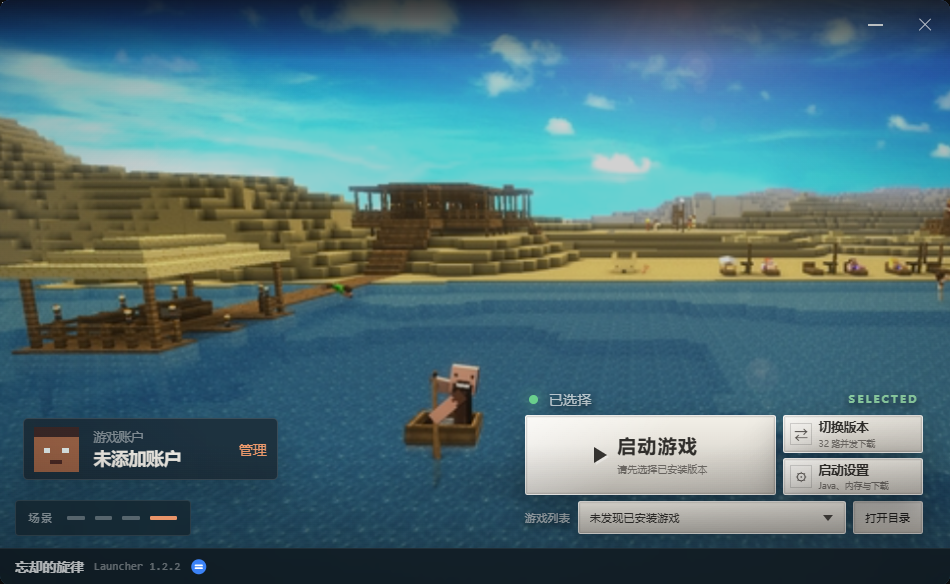
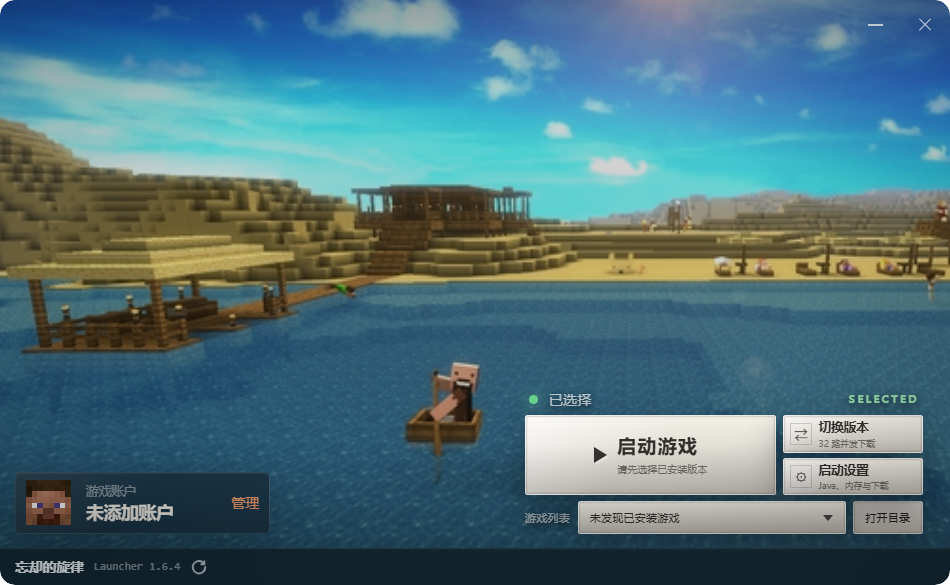
Refresh website with current launcher screenshots

diff --git a/styles.css b/styles.css
@@ -1,5 +1,5 @@
 @import url("https://fonts.googleapis.com/css2?family=DM+Sans:wght@400;500;600;700&family=Noto+Sans+SC:wght@400;500;600;700;800&display=swap");
-:root{color-scheme:dark;--ink:#f5f6f1;--muted:#aab5ae;--bg:#151b19;--line:#38443f;--accent:#c7e56b}
+:root{color-scheme:dark;--ink:#f5f2ee;--muted:#b3ada8;--bg:#191b20;--line:#454043;--accent:#e3a17a}
 *{box-sizing:border-box}
 html{scroll-behavior:smooth}
 body{margin:0;background:var(--bg);color:var(--ink);font-family:"DM Sans","Noto Sans SC",sans-serif;letter-spacing:0}
@@ -28,14 +28,21 @@ img{max-width:100%;display:block}
 .menu-button span{display:block;width:22px;height:2px;background:#fff;margin:5px 0}
 .hero{position:relative;min-height:690px;height:min(800px,88vh);overflow:hidden;background:#25352b}
 .hero-image,.hero-shade{position:absolute;inset:0}
-.hero-image{background:url("./assets/backgrounds/scene-01.jpg") center 55%/cover no-repeat;transform:scale(1.01)}
-.hero-shade{background:linear-gradient(90deg,#0d1713ed 0%,#0d1713bb 34%,#0d171333 75%),linear-gradient(0deg,#0d1713a8,transparent 30%)}
+.hero-image{background:url("./assets/backgrounds/scene-04.jpg") center 55%/cover no-repeat;transform:scale(1.01)}
+.hero-shade{background:linear-gradient(90deg,#101923ed 0%,#101923bb 34%,#10192355 75%),linear-gradient(0deg,#191b20,transparent 45%)}
 .hero-inner{position:relative;z-index:1;height:100%;display:flex;flex-direction:column;justify-content:center;padding-top:82px}
-.hero-content{max-width:690px;margin-top:10px}
+.hero-layout{display:grid;grid-template-columns:minmax(0,.85fr) minmax(0,1.3fr);align-items:center;gap:5%}
+.hero-content{max-width:540px;margin-top:10px}
+.hero-launcher-preview{margin:0;min-width:0}
+.hero-launcher-preview a{display:block;border-radius:14px;box-shadow:0 28px 80px #0008;transition:transform .2s}
+.hero-launcher-preview a:hover{transform:translateY(-4px)}
+.hero-launcher-preview a:focus-visible{outline:2px solid var(--accent);outline-offset:6px}
+.hero-launcher-preview img{width:100%;height:auto;border-radius:14px}
+.hero-launcher-preview figcaption{margin-top:16px;color:#e1d8d0;font-size:12px;text-align:right;line-height:1.6}
 .kicker{display:flex;align-items:center;gap:11px;font-size:12px;font-weight:700;color:#d5e4d5;margin:0 0 28px}
 .status-dot{width:7px;height:7px;background:var(--accent);border-radius:50%;box-shadow:0 0 0 5px #c7e56b2c}
 h1,h2,h3,p,figure{margin-top:0}
-h1{font-size:clamp(50px,6.2vw,88px);line-height:1.12;font-weight:800;margin-bottom:14px}
+h1{font-size:clamp(42px,4.2vw,66px);line-height:1.12;font-weight:800;margin-bottom:14px}
 .hero-subtitle{font-size:clamp(24px,2.7vw,36px);font-weight:600;margin-bottom:22px;color:#e0eccf}
 .hero-description{max-width:530px;font-size:16px;line-height:1.9;color:#e3e9e2;margin-bottom:30px}
 .hero-actions{display:flex;flex-wrap:wrap;gap:12px}
@@ -77,7 +84,7 @@ h2{font-size:clamp(32px,3.3vw,48px);line-height:1.3;font-weight:800;margin-botto
 .feature-item p{color:#abb9ac;line-height:1.8;font-size:14px;margin:0;max-width:700px}
 .feature-mark{font-size:22px;color:#b7d279;text-align:right}
 .scene-section{height:380px;position:relative;overflow:hidden;background:#313f36}
-.scene-image{position:absolute;inset:0;background:url("./assets/backgrounds/scene-03.jpg") center/cover no-repeat}
+.scene-image{position:absolute;inset:0;background:url("./assets/backgrounds/scene-04.jpg") center/cover no-repeat}
 .scene-section:after{content:"";position:absolute;inset:0;background:linear-gradient(90deg,#101a16d9,#101a1633)}
 .scene-content{position:relative;z-index:1;height:100%;display:flex;flex-direction:column;justify-content:center}
 .scene-content span{font-size:11px;font-weight:800;letter-spacing:2px;color:#d6ebbb}
@@ -147,3 +154,5 @@ h2{font-size:clamp(32px,3.3vw,48px);line-height:1.3;font-weight:800;margin-botto
 @media(max-width:700px){.shell{width:min(100% - 36px,1280px)}.header-inner{height:68px}.brand img{width:34px;height:34px}.brand strong{font-size:14px}.brand small{font-size:8px}.header-download{display:none}.menu-button{display:block}.site-nav{display:none;position:absolute;top:68px;left:0;right:0;background:#16211b;padding:15px 18px 23px;border-bottom:1px solid #465349;flex-direction:column;align-items:stretch;gap:0}.menu-open .site-nav{display:flex}.site-nav a{padding:12px 4px}.hero{height:auto;min-height:650px}.hero-image{background-position:58% center}.hero-shade{background:linear-gradient(90deg,#0d1713e8,#0d171374),linear-gradient(0deg,#0d1713bf,transparent 45%)}.hero-inner{min-height:650px;padding-top:68px}.hero-content{margin-top:0}.kicker{font-size:10px;margin-bottom:23px}.hero-description{font-size:14px}.hero-bottom{bottom:20px}.intro-band,.features-section,.download-section{padding:72px 0}.intro-layout{grid-template-columns:1fr;gap:42px}.section-copy>p:not(.section-label){max-width:600px}.launcher-figure img{box-shadow:9px 12px 0 #d2ddd1}.launcher-figure figcaption{margin-top:20px}.section-heading{margin-bottom:30px}.feature-item{grid-template-columns:34px 1fr 20px;gap:14px;padding:25px 0}.feature-item h3{font-size:18px}.feature-mark{font-size:18px}.scene-section{height:310px}.download-layout{flex-direction:column;align-items:stretch;gap:30px}.download-action{max-width:350px}.footer-inner{flex-wrap:wrap;gap:22px}.footer-inner p{margin-left:auto}.partner-window{right:12px;bottom:12px;width:min(300px,calc(100vw - 24px))}}
 @media(max-width:390px){h1{font-size:46px}.hero-actions{gap:9px}.hero-actions .button{padding:0 14px;font-size:12px}.quick-facts{gap:8px}.quick-facts strong{font-size:24px}.quick-facts span{font-size:10px}.footer-inner p{order:3;width:100%;margin:0}}
 @media(prefers-reduced-motion:reduce){html{scroll-behavior:auto}*{transition:none!important}}
+@media(max-width:1050px){.hero-layout{grid-template-columns:1fr;gap:32px}.hero{height:auto;min-height:0}.hero-inner{padding-top:132px;padding-bottom:94px}.hero-content{max-width:650px;margin:0}.hero-launcher-preview{width:min(100%,760px)}.hero-bottom{left:0;right:0}.hero-subtitle{font-size:28px}.hero-description{max-width:600px}.site-nav{gap:18px}.header-inner{gap:20px}.header-download{padding-inline:12px}}
+@media(max-width:700px){.hero-inner{min-height:0;padding-top:110px;padding-bottom:84px}.hero-layout{gap:32px}.hero-subtitle{font-size:24px}.hero-launcher-preview figcaption{font-size:10px;text-align:left}.hero-launcher-preview a,.hero-launcher-preview img{border-radius:8px}}

diff --git a/index.html b/index.html
@@ -3,11 +3,12 @@
 <head>
   <meta charset="UTF-8">
   <meta name="viewport" content="width=device-width, initial-scale=1">
-  <meta name="theme-color" content="#151b19">
+  <meta name="theme-color" content="#191b20">
   <meta name="description" content="忘却的旋律是一款 Minecraft 启动器。管理游戏版本、账户、加载器和整合包，准备好就直接开玩。">
   <title>忘却的旋律启动器</title>
   <link rel="icon" type="image/png" href="./assets/app-icon.png">
-  <link rel="preload" as="image" href="./assets/backgrounds/scene-01.jpg">
+  <link rel="preload" as="image" href="./assets/backgrounds/scene-04.jpg">
+  <link rel="preload" as="image" href="./assets/launcher-screenshot.png">
   <link rel="stylesheet" href="./styles.css">
   <script src="./site.js" defer></script>
 </head>
@@ -36,16 +37,22 @@
     <section class="hero" id="top">
       <div class="hero-image" aria-hidden="true"></div><div class="hero-shade" aria-hidden="true"></div>
       <div class="shell hero-inner">
+        <div class="hero-layout">
         <div class="hero-content">
           <p class="kicker"><span class="status-dot"></span><span data-i18n="hero.kicker">Minecraft 启动器 · Windows / macOS / Linux</span></p>
           <h1 data-i18n="hero.title">忘却的旋律</h1>
-          <p class="hero-subtitle" data-i18n="hero.subtitle">打开游戏，接着玩。</p>
-          <p class="hero-description" data-i18n="hero.description">版本、账户、模组加载器都放在一个地方。选好要玩的世界，剩下的交给启动器。</p>
+          <p class="hero-subtitle" data-i18n="hero.subtitle">你的方块世界，从这里启动。</p>
+          <p class="hero-description" data-i18n="hero.description">沙漠湖泊，打开即见。管理账户、安装版本、调整 Java 与内存，然后启动游戏。</p>
           <div class="hero-actions">
             <a class="button button-primary" href="#download"><span aria-hidden="true">↓</span><span data-i18n="hero.download">下载启动器</span></a>
             <a class="button button-outline" href="#launcher"><span data-i18n="hero.preview">看看界面</span><span aria-hidden="true">↘</span></a>
           </div>
           <p class="hero-release" data-i18n="hero.release">通过本站选择版本，使用 HTTPS 下载</p>
+        </div>
+        <figure class="hero-launcher-preview">
+          <a href="#launcher" aria-label="查看启动器账户界面"><img src="./assets/launcher-screenshot.png" width="950" height="584" alt="忘却的旋律 1.6.4 启动器真实主界面，默认沙漠湖泊壁纸" fetchpriority="high" decoding="async"></a>
+          <figcaption data-i18n="hero.caption">v1.6.4 实际主界面 · 沙漠湖泊默认场景</figcaption>
+        </figure>
         </div>
         <div class="hero-bottom"><span>01 / MELODY LAUNCHER</span><a href="#launcher" aria-label="向下查看"><span aria-hidden="true">↓</span></a></div>
       </div>
@@ -54,15 +61,15 @@
       <div class="shell intro-layout">
         <div class="section-copy">
           <p class="section-label">THE LAUNCHER / 01</p>
-          <h2 data-i18n="intro.title">你要玩的版本，<br>一眼就能找到。</h2>
-          <p data-i18n="intro.body">启动页只显示已经装好的游戏。换版本、切账户、打开设置，不用在一长串下载目录里翻找。</p>
+          <h2 data-i18n="intro.title">熟悉的账户，<br>在同一个地方。</h2>
+          <p data-i18n="intro.body">左下角管理 Microsoft、离线和 LittleSkin 账户。右侧切换已安装版本、打开启动设置，壁纸也可在设置中更换。</p>
           <div class="quick-facts">
             <div><strong>3</strong><span data-i18n="fact.accounts">种账户入口</span></div>
             <div><strong>32</strong><span data-i18n="fact.threads">路并发下载</span></div>
             <div><strong>3</strong><span data-i18n="fact.platforms">个桌面平台</span></div>
           </div>
         </div>
-        <figure class="launcher-figure"><img src="./assets/launcher-screenshot.png" alt="忘却的旋律启动器界面截图" loading="lazy"><figcaption data-i18n="intro.caption">启动器实际界面</figcaption></figure>
+        <figure class="launcher-figure"><img src="./assets/launcher-accounts.png" width="950" height="584" alt="忘却的旋律启动器真实账户管理界面，包含 Microsoft、离线和 LittleSkin 登录" loading="lazy" decoding="async"><figcaption data-i18n="intro.caption">v1.6.4 实际账户管理界面</figcaption></figure>
       </div>
     </section>
     <section class="features-section" id="features">

diff --git a/site.js b/site.js
@@ -8,17 +8,18 @@ const translations = {
   "nav.get": "Get the launcher <span aria-hidden=\"true\">↗</span>",
   "hero.kicker": "Minecraft launcher · Windows / macOS / Linux",
   "hero.title": "Melody Launcher",
-  "hero.subtitle": "Open the game. Pick up where you left off.",
-  "hero.description": "Versions, accounts, and mod loaders live in one place. Choose the world you want to play; the launcher handles the setup.",
+  "hero.subtitle": "Your block world starts here.",
+  "hero.description": "A desert lake greets you on launch. Manage accounts, install versions, adjust Java and memory, then start your game.",
+  "hero.caption": "Actual v1.6.4 home screen · Default Desert Lake scene",
   "hero.download": "Download launcher",
   "hero.preview": "See the launcher",
   "hero.release": "Choose a build here and download over HTTPS",
-  "intro.title": "Find the version you want<br>at a glance.",
-  "intro.body": "The launch screen shows games you've actually installed. Switch versions or accounts and open settings without digging through a download catalog.",
+  "intro.title": "Your familiar accounts,<br>all in one place.",
+  "intro.body": "Manage Microsoft, offline, and LittleSkin accounts at the bottom left. Switch installed versions and open launch settings on the right, or change your wallpaper in settings.",
   "fact.accounts": "account types",
   "fact.threads": "download threads",
   "fact.platforms": "desktop platforms",
-  "intro.caption": "Actual launcher interface",
+  "intro.caption": "Actual v1.6.4 account management screen",
   "features.title": "Fewer steps between install and play.",
   "features.lead": "The things you use often stay close. Download and installation progress stay visible.",
   "feature.download.title": "Downloads that keep moving",
@@ -106,8 +107,13 @@ function setLanguage(language) {
   languageButton.textContent = english ? "中文" : "EN";
   languageButton.setAttribute("aria-label", english ? "切换为中文" : "Switch language");
   document.querySelector(".launcher-figure img").alt = english
-    ? "Screenshot of the Melody Launcher interface"
-    : "忘却的旋律启动器界面截图";
+    ? "Actual Melody Launcher account screen with Microsoft, offline, and LittleSkin sign-in"
+    : "忘却的旋律启动器真实账户管理界面，包含 Microsoft、离线和 LittleSkin 登录";
+  document.querySelector(".hero-launcher-preview img").alt = english
+    ? "Actual Melody Launcher 1.6.4 home screen with the default Desert Lake wallpaper"
+    : "忘却的旋律 1.6.4 启动器真实主界面，默认沙漠湖泊壁纸";
+  document.querySelector(".hero-launcher-preview a").setAttribute("aria-label", english
+    ? "View the launcher account screen" : "查看启动器账户界面");
   updateDownloadLink();
   try { localStorage.setItem("melody-site-language", language); } catch {}
 }
